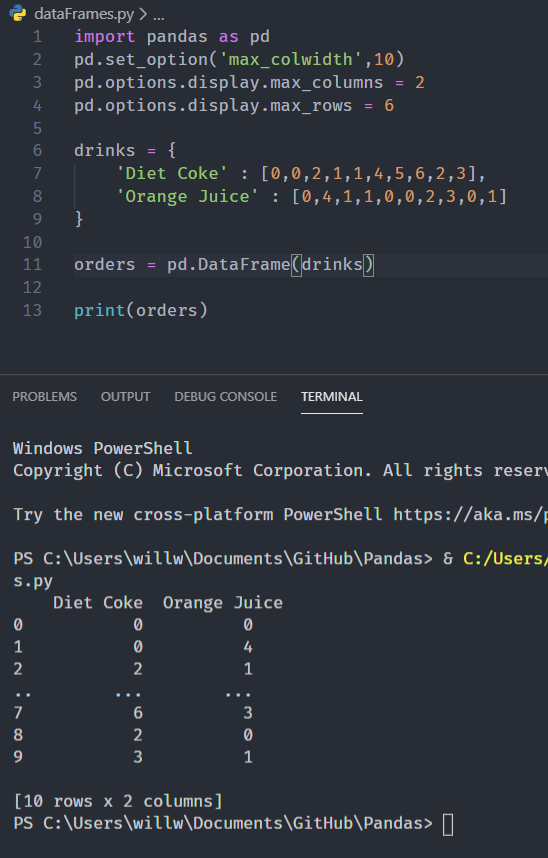
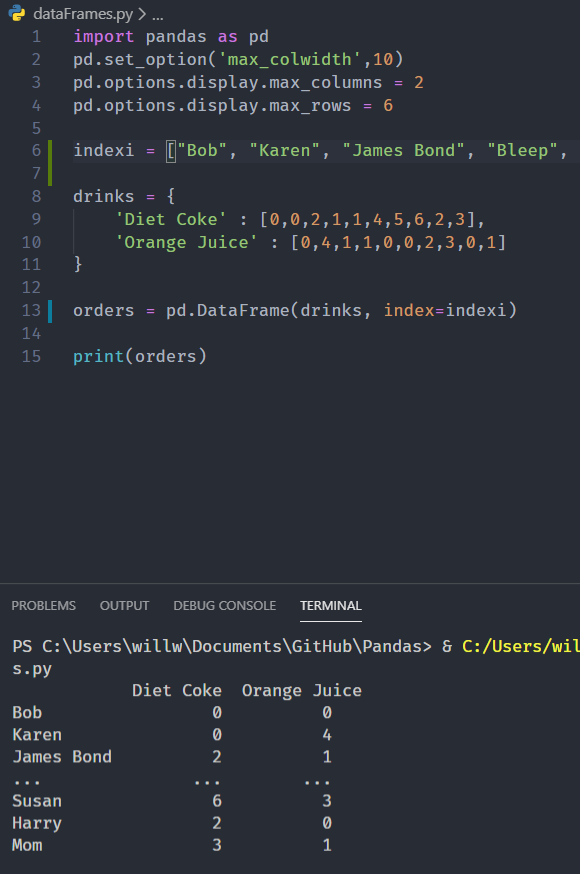
Task 3: Indexes - Complete

diff --git a/dataFrames.py b/dataFrames.py
@@ -3,11 +3,13 @@ pd.set_option('max_colwidth',10)
 pd.options.display.max_columns = 2
 pd.options.display.max_rows = 6
 
+indexi = ["Bob", "Karen", "James Bond", "Bleep", "Bloop", "Jesus Christ", "Gary", "Susan", "Harry", "Mom"]
+
 drinks = {
     'Diet Coke' : [0,0,2,1,1,4,5,6,2,3],
     'Orange Juice' : [0,4,1,1,0,0,2,3,0,1]
 }
 
-orders = pd.DataFrame(drinks)
+orders = pd.DataFrame(drinks, index=indexi)
 
 print(orders)
